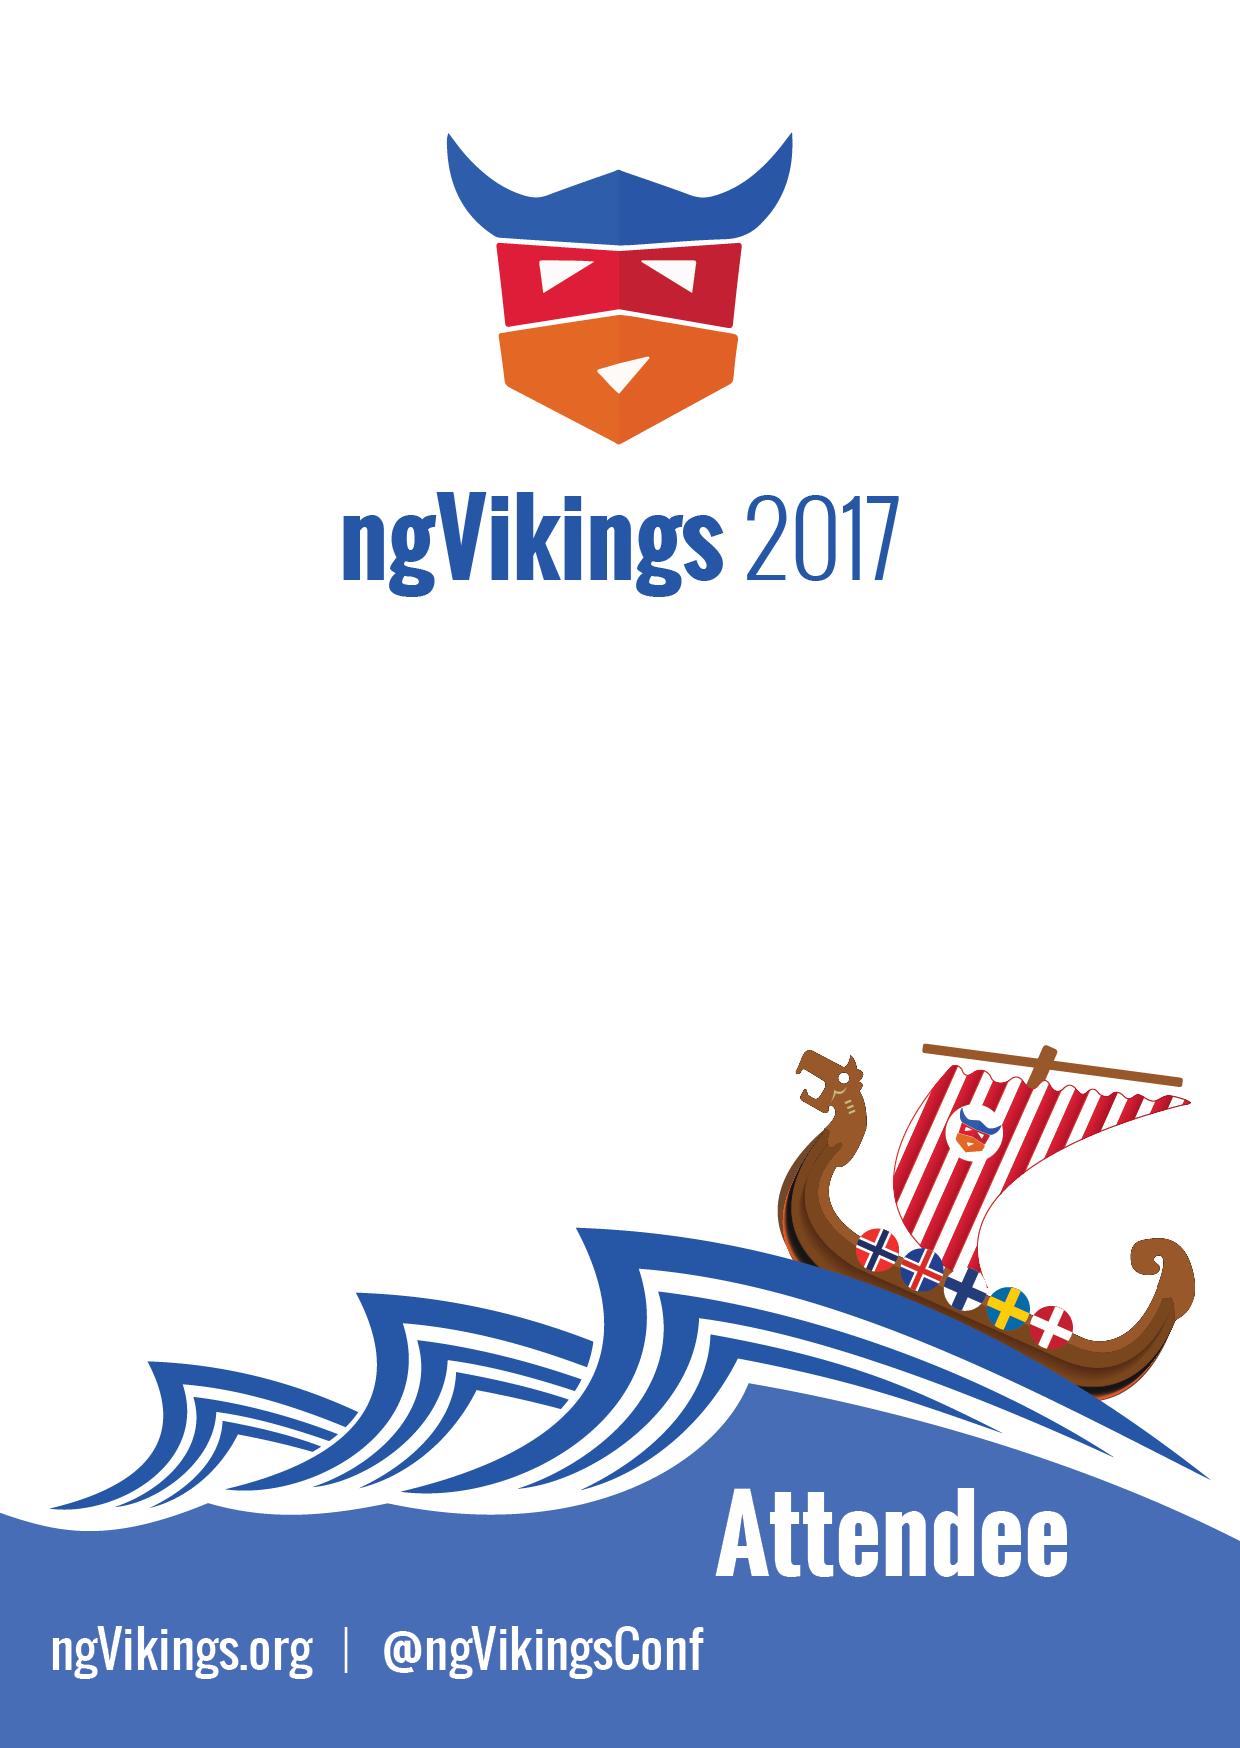
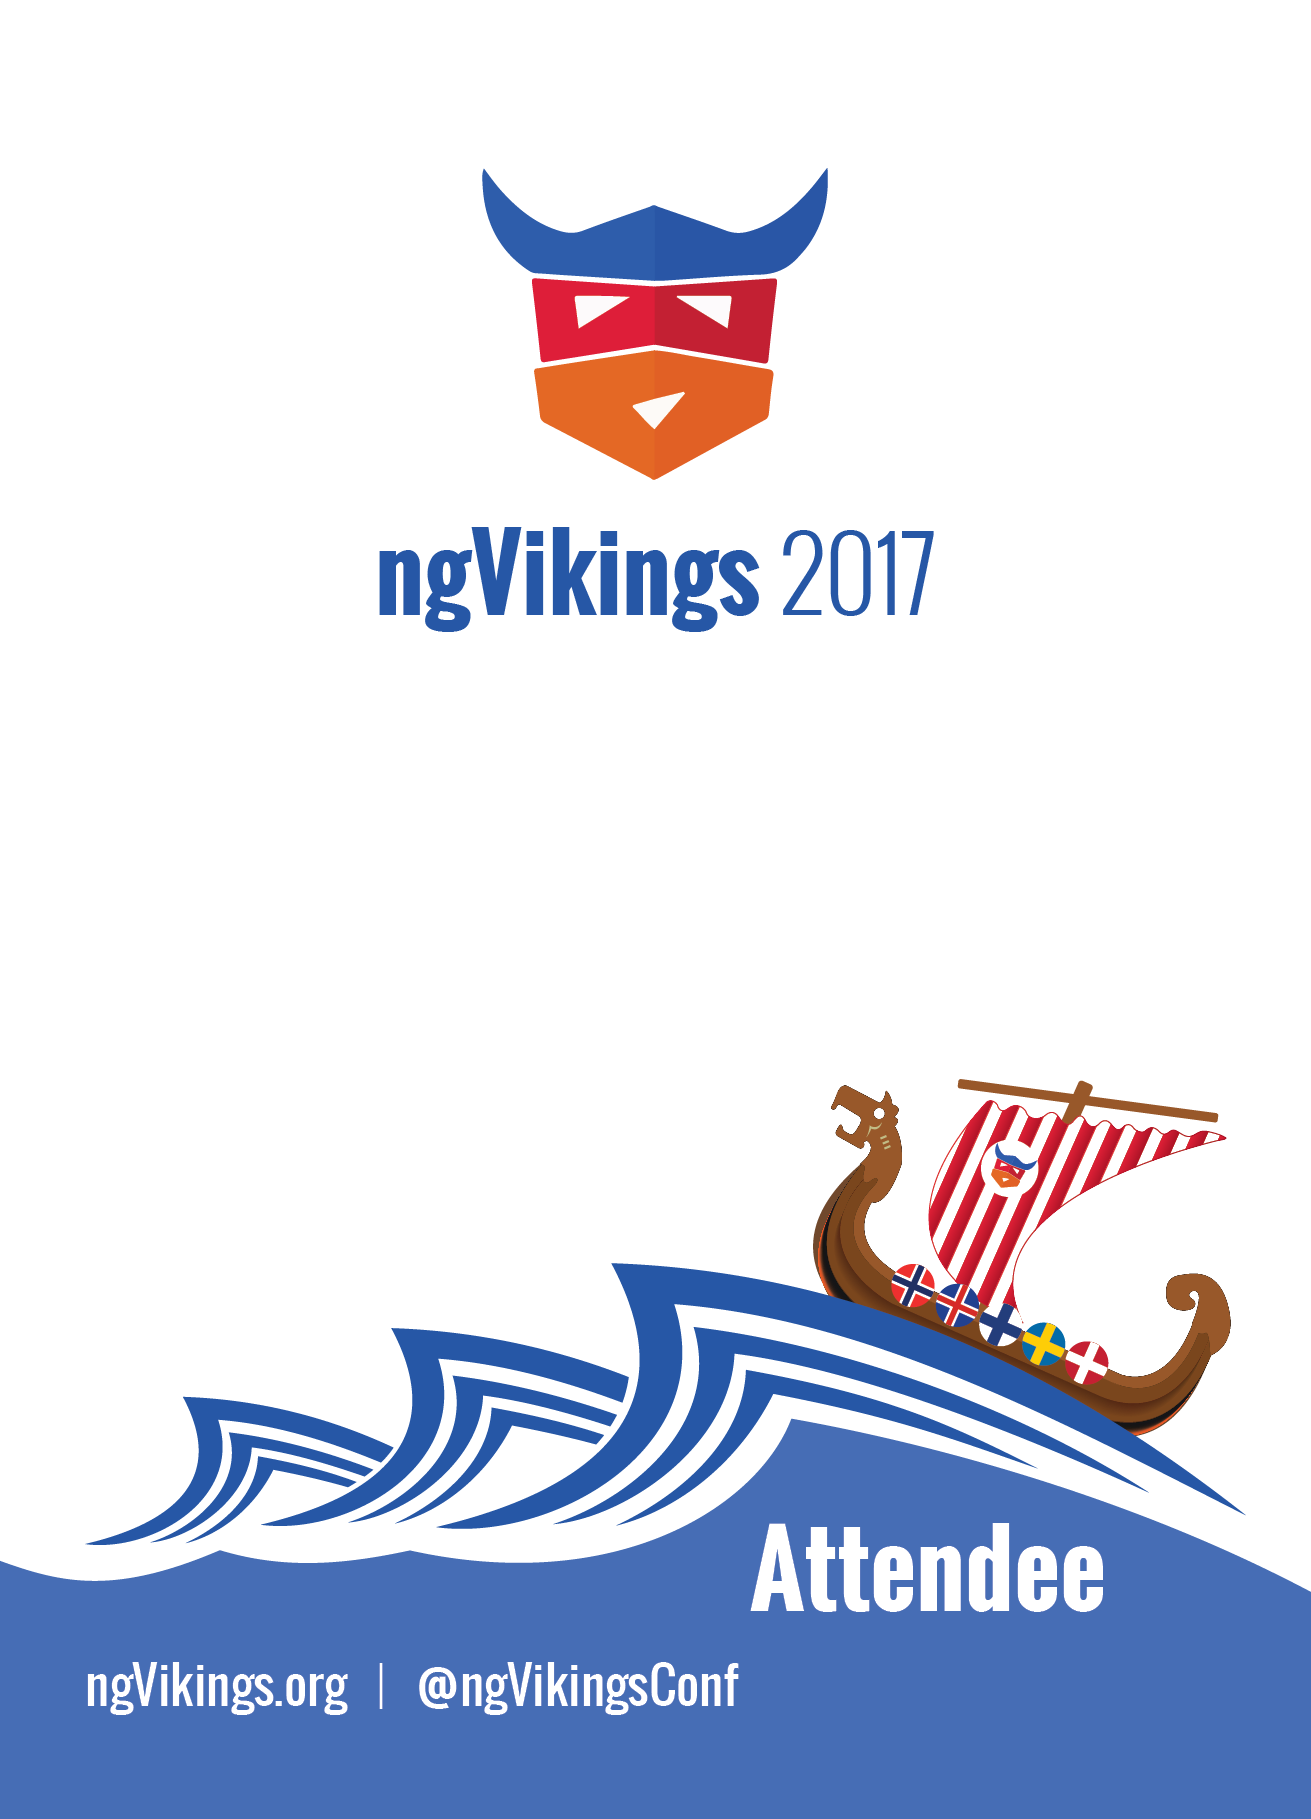
paper size updated

Changed region(s): [[0.0, 0.587, 1.0, 0.9577], [0.2758, 0.0618, 0.7355, 0.3707], [0.3371, 0.0618, 0.3677, 0.0927]]

diff --git a/participants.js b/participants.js
@@ -41,7 +41,8 @@ var DIET_STOP_LIST = [
     "Meat",
     "Nope.",
     "I love meat.",
-    "Sushi!"
+    "Sushi!",
+    "banana"
 ]
 
 var STATS = {
@@ -105,15 +106,15 @@ var STATS = {
                 'total': 0,
                 'number': 0
             },
-            'Workshop Day (Feb 12th): Migrating Applications from Angular 1 to Angular 2 - FREE WORKSHOP! Use 100% discount code - See details below:': {
+            'Workshop Day (Feb 12th): Migrating Applications from Angular 1 to Angular 2': {
                 'total': 0,
                 'number': 0
             },
-            'Workshop Day (Feb 12th): Ionic 2 with Firebase - FREE WORKSHOP! Use 100% discount code - See details below:': {
+            'Workshop Day (Feb 12th): Ionic 2 with Firebase': {
                 'total': 0,
                 'number': 0
             },
-            'Workshop Day (Feb 12th): ng-girls FREE WORKSHOP!': {
+            'Workshop Day (Feb 12th): ngGirls @ ngVikings': {
                 'total': 0,
                 'number': 0
             },
@@ -140,7 +141,8 @@ var STATS = {
             'L': 0,
             'XL': 0,
             'XXL': 0,
-            '-': 0
+            '-': 0,
+            'number': 0
         },
         'organizers': {
             'XS': 0,
@@ -149,7 +151,8 @@ var STATS = {
             'L': 0,
             'XL': 0,
             'XXL': 0,
-            '-': 0
+            '-': 0,
+            'number': 0
         },
         'speakers': {
             'XS': 0,
@@ -158,7 +161,8 @@ var STATS = {
             'L': 0,
             'XL': 0,
             'XXL': 0,
-            '-': 0
+            '-': 0,
+            'number': 0
         },
         'volunteers': {
             'XS': 0,
@@ -167,7 +171,28 @@ var STATS = {
             'L': 0,
             'XL': 0,
             'XXL': 0,
-            '-': 0
+            '-': 0,
+            'number': 0
+        },
+        'black': {
+            'XS': 0,
+            'S': 0,
+            'M': 0,
+            'L': 0,
+            'XL': 0,
+            'XXL': 0,
+            '-': 0,
+            'number': 0
+        },
+        'white': {
+            'XS': 0,
+            'S': 0,
+            'M': 0,
+            'L': 0,
+            'XL': 0,
+            'XXL': 0,
+            '-': 0,
+            'number': 0
         },
         'number': 0
     },
@@ -182,7 +207,10 @@ var FREE_WORKSHOPS = {
 
 function createParticipant(participant) {
 
-    var fullName = participant['Ticket First Name'].trim() + " " + participant["Ticket Last Name"].trim();
+    var firstName = participant['Ticket First Name'] || '';
+    var lastName = participant['Ticket Last Name'] || '';
+
+    var fullName = firstName.trim() + " " + lastName.trim();
 
     var company = participant['Ticket Company Name'];
     var sessionInfo = null;
@@ -257,7 +285,11 @@ function createParticipant(participant) {
         }
 
         STATS.tshirts.attendees[tShirt]++;
+        STATS.tshirts.attendees.number++;
         STATS.tshirts.number++;
+
+        STATS.tshirts.black[tShirt]++;
+        STATS.tshirts.black.number++;
 
         if (diet) {
             STATS.conf.diet.list.push(diet)
@@ -307,7 +339,11 @@ function createParticipant(participant) {
         STATS.workshops.people.number++;
 
         STATS.tshirts.organizers[tShirt]++;
+        STATS.tshirts.organizers.number++;
         STATS.tshirts.number++;
+
+        STATS.tshirts.white[tShirt]++;
+        STATS.tshirts.white.number++;
 
         if (diet) {
             STATS.conf.diet.list.push(diet)
@@ -327,7 +363,11 @@ function createParticipant(participant) {
         STATS.workshops.people.number++;
 
         STATS.tshirts.volunteers[tShirt]++;
+        STATS.tshirts.volunteers.number++;
         STATS.tshirts.number++;
+
+        STATS.tshirts.white[tShirt]++;
+        STATS.tshirts.white.number++;
 
         if (diet) {
             STATS.conf.diet.list.push(diet)
@@ -348,7 +388,11 @@ function createParticipant(participant) {
         STATS.workshops.people.number++;
 
         STATS.tshirts.speakers[tShirt]++;
+        STATS.tshirts.speakers.number++;
         STATS.tshirts.number++;
+
+        STATS.tshirts.black[tShirt]++;
+        STATS.tshirts.black.number++;
 
         if (diet) {
             STATS.conf.diet.list.push(diet)
@@ -371,7 +415,8 @@ function createParticipant(participant) {
         contactCard,
         sessionInfo,
         image,
-        categoryName
+        categoryName,
+        ticketName
     };
 }
 

diff --git a/badgePrint.js b/badgePrint.js
@@ -10,46 +10,91 @@ function printParticipant(doc, participant, side) {
     var margin = 10;
 
     var sessionInfo = participant.sessionInfo;
+    var categoryName = participant.categoryName;
+    var ticketName = participant.ticketName;
 
-    if (sessionInfo && side === "back") {
+    if ((categoryName === 'Speaker' && sessionInfo && side === "back") || (categoryName === 'WorkshopAttendee' && side === "back")) {
 
-        sessionInfo = sessionInfo.match(/[^\r\n]+/g);
+        if (categoryName === 'Speaker') {
 
-        doc.image('images/badge6.png', 0, 0, {
-            height,
-            width: doc.page.width
-        });
+            doc.image('images/badge6.png', 0, 0, {
+                height,
+                width: doc.page.width
+            });
 
+            sessionInfo = sessionInfo.match(/[^\r\n]+/g);
 
-        doc.font('fonts/Oswald/Oswald-Bold.ttf')
-            .fontSize(18)
-            .fillColor("#000000");
-        if (doc.widthOfString(sessionInfo[0]) > width) {
-            doc.fontSize(16);
+            doc.font('fonts/Oswald/Oswald-Bold.ttf')
+                .fontSize(18)
+                .fillColor("#000000");
+            if (doc.widthOfString(sessionInfo[0]) > width) {
+                doc.fontSize(16);
+            }
+            doc.text(sessionInfo[0], margin, 160, {
+                align: "center",
+                height,
+                width
+            });
+
+            doc.font('fonts/Oswald/Oswald-Regular.ttf')
+                .fontSize(12)
+                .fillColor("#2556a6")
+                .text(sessionInfo[1], {
+                    align: "center",
+                    height,
+                    width
+                });
+
+            doc.font('fonts/Oswald/Oswald-Regular.ttf')
+                .fontSize(12)
+                .fillColor("#7a461c")
+                .text('\nOffice Hours: ' + sessionInfo[2], {
+                    align: "center",
+                    height,
+                    width
+                });
+
+        } else {
+
+            doc.image('images/badge5.png', 0, 0, {
+                height,
+                width: doc.page.width
+            });
+
+            workshopName = ticketName.substring(25);
+
+            doc.font('fonts/Oswald/Oswald-Bold.ttf')
+                .fontSize(18)
+                .fillColor("#000000");
+            if (doc.widthOfString(workshopName) > width) {
+                doc.fontSize(16);
+            }
+            doc.text(workshopName, margin, 160, {
+                align: "center",
+                height,
+                width
+            });
+
+            doc.font('fonts/Oswald/Oswald-Regular.ttf')
+                .fontSize(12)
+                .fillColor("#2556a6")
+                .text('February 12th, 10:00-17:00', {
+                    align: "center",
+                    height,
+                    width
+                });
+
+            doc.font('fonts/Oswald/Oswald-Regular.ttf')
+                .fontSize(12)
+                .fillColor("#7a461c")
+                .text('\nLunch: 12:30-13:30', {
+                    align: "center",
+                    height,
+                    width
+                });
+
         }
-        doc.text(sessionInfo[0], margin, 160, {
-            align: "center",
-            height,
-            width
-        });
 
-        doc.font('fonts/Oswald/Oswald-Regular.ttf')
-            .fontSize(12)
-            .fillColor("#2556a6")
-            .text(sessionInfo[1], {
-                align: "center",
-                height,
-                width
-            });
-
-        doc.font('fonts/Oswald/Oswald-Regular.ttf')
-            .fontSize(12)
-            .fillColor("#7a461c")
-            .text('\nOffice Hours: ' + sessionInfo[2], {
-                align: "center",
-                height,
-                width
-            });
 
 
     } else {
@@ -118,7 +163,7 @@ function badgePrint(participants, filename) {
 
     // Create a document
     doc = new PDFDocument({
-        size: 'A6',
+        size: [315, 436],
         autoFirstPage: false
     });
 
@@ -141,7 +186,7 @@ function blankBadgePrint(count, filename) {
     console.log('Started creating ' + filename + '...');
 
     doc = new PDFDocument({
-        size: 'A6',
+        size: [315, 436],
         autoFirstPage: false
     });
     doc.pipe(fs.createWriteStream(filename));

diff --git a/index.js b/index.js
@@ -1,13 +1,15 @@
 var participants = require("./participants");
 var badgePrint = require('./badgePrint');
 var argv = require('yargs')
-    .usage('Usage: $0 --file [string]')
+    .usage('Usage: $0 --file [string] --category [ConferenceAttendee,WorkshopAttendee,Organizer,Volunteer,Speaker]')
     .argv;
+
+var category = argv.category || null
 
 if (!argv.file) {
     console.log('Only blank badges will be printed. Usage: $0 --file [string]');
 } else {
-    badgePrint.badgePrint(participants(argv.file), 'badges.pdf');
+    badgePrint.badgePrint(participants(argv.file, category), 'badges-' + category + '.pdf');
 }
 
-//badgePrint.blankBadgePrint(10, 'blank-badges.pdf');
+//badgePrint.blankBadgePrint(10, 'blank-badges' + category + '.pdf');
